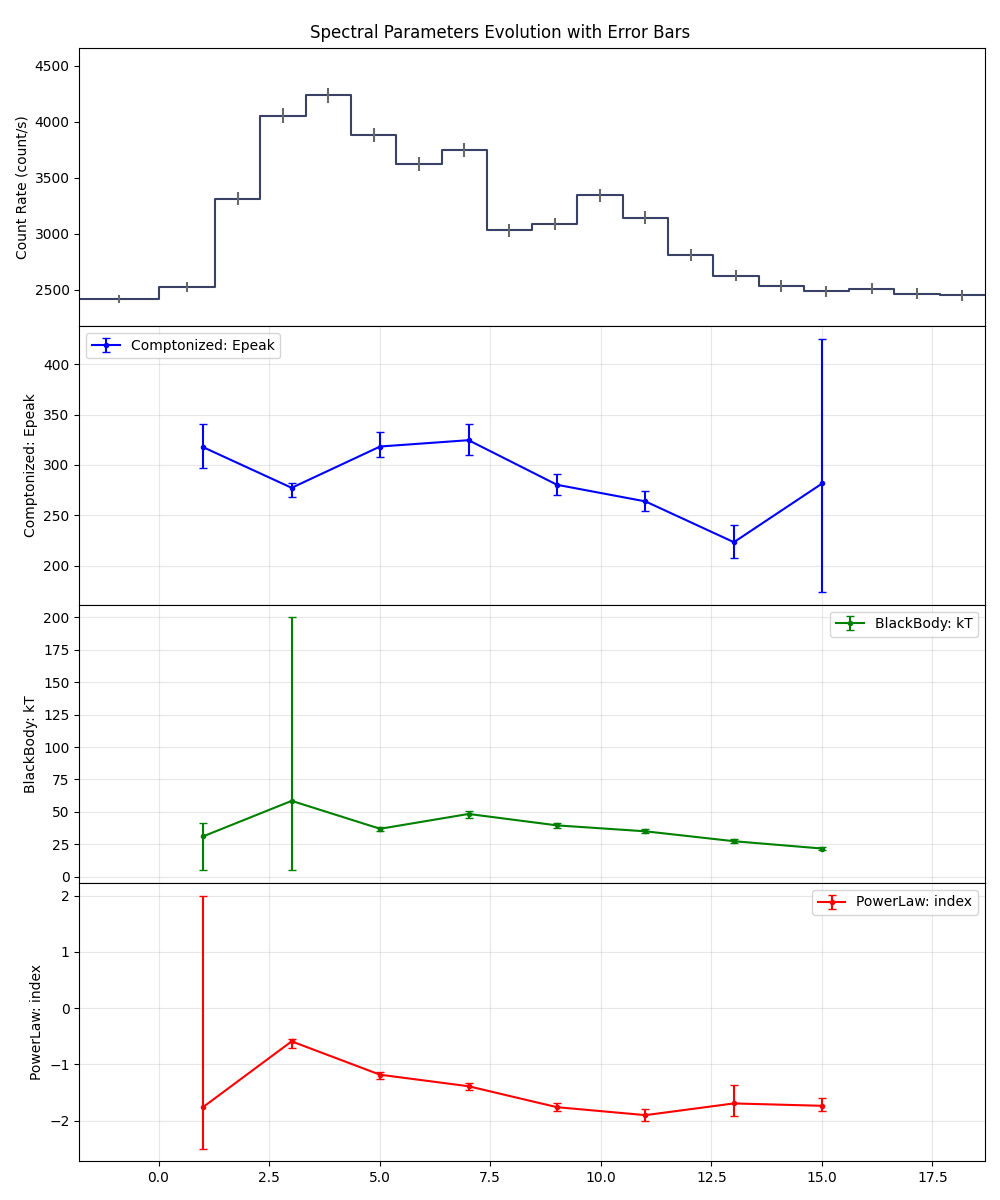
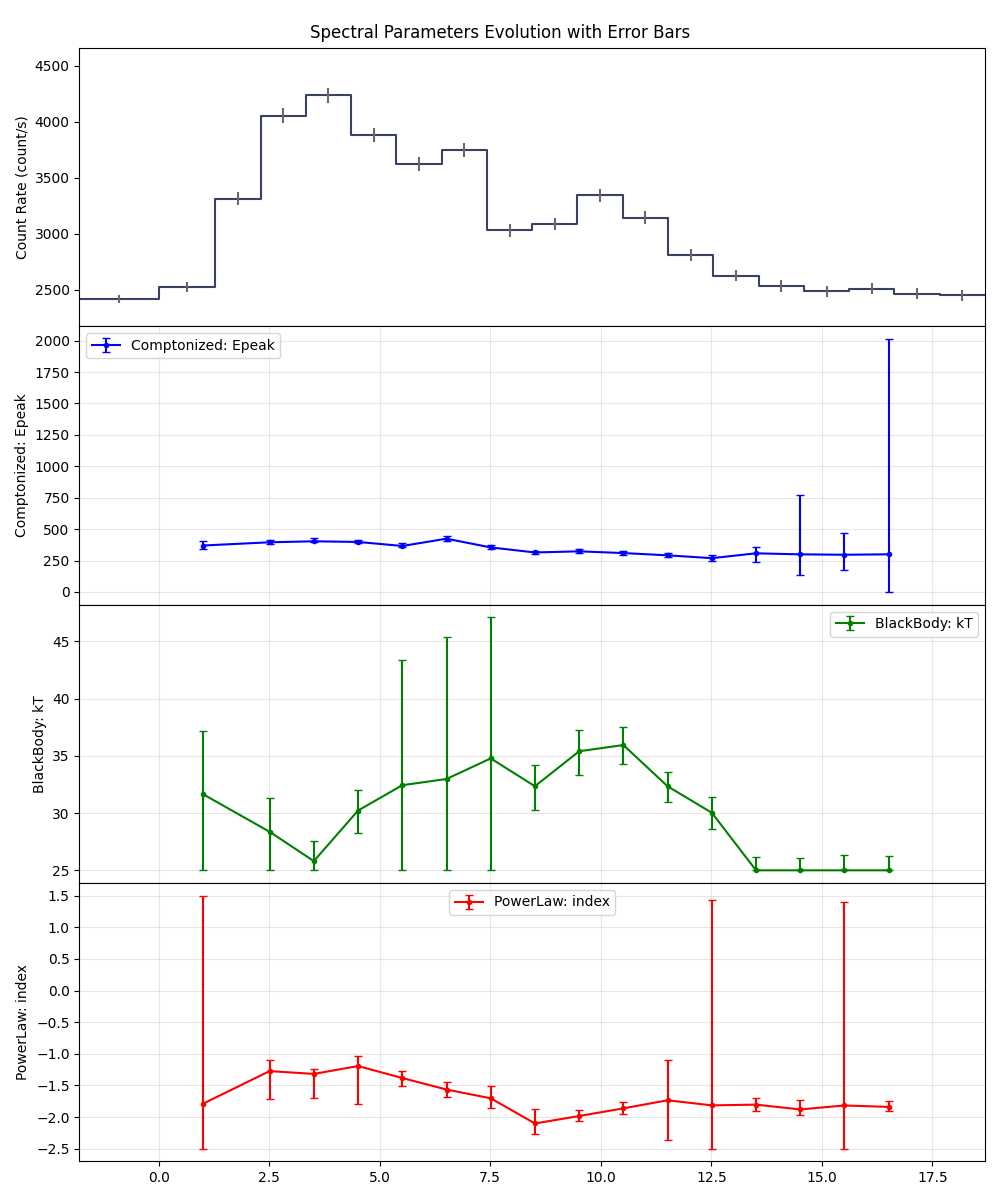
agregado modo estricto

diff --git a/spectral_analysis.py b/spectral_analysis.py
@@ -24,7 +24,7 @@ class GRBSpectralAnalysis:
 
     def __init__(
             self, obj: str, fit_type: Literal["band", "multi"],
-            ignore_bgo: bool, include_errors: bool,
+        ignore_bgo: bool, include_errors: bool, strict:bool,
             stat: str, out: str,
             max_beta: float = -0.2,
             min_bin_size: float = 2,
@@ -151,11 +151,11 @@ class GRBSpectralAnalysis:
                     fit_function.min_values[i] = -15.0
                 continue
 
-            if desc=='Temperature':
-                fit_function.max_values[i] = 200
+            if name=='BlackBody: kT':
+                fit_function.max_values[i] = 100
                 fit_function.min_values[i] = 5
 
-            elif desc == 'Photon index':
+            elif name== 'PowerLaw: index':
                 fit_function.max_values[i] = 2
                 fit_function.min_values[i] = -2.5
 
@@ -209,7 +209,7 @@ class GRBSpectralAnalysis:
             specfitter = specfitter_funct(
                 phas, self.bkgds.to_list(), rsps_interp, method='TNC'
             )
-            specfitter.fit(fit_function, options={'maxiter': 10000})
+            specfitter.fit(fit_function, options={'maxiter': 50000})
 
             # Get results
             parameters = specfitter.parameters
@@ -227,7 +227,8 @@ class GRBSpectralAnalysis:
                 is_epeak = 'SED PEAK' in desc.upper()
                 if not is_epeak: continue
                 epeak_err = errors[i][1]
-            fit_success = epeak_err < np.inf #and specfitter.success
+            fit_success = epeak_err < np.inf and \
+                (not self.strict or specfitter.success)
 
             # Store results
             result = {
@@ -375,6 +376,8 @@ to *my_results.csv*.""")
     error message; otherwise only successful fits are saved.""")
     parser.add_argument("--show", action="store_true",
         help="""Whether to show or not the graphs created.""")
+    parser.add_argument("--strict", action="store_true",
+                        help="""Use GBT bin acceptance criteria along with the energy criteria.""")
     args: Namespace = parser.parse_args()
     return args
 
@@ -394,8 +397,10 @@ def main() -> list[dict[str, Any]]:
             bkg_fit_degree=2,
             stat=args.stat,
             fit_type=args.fit_func,
+            strict=args.strict,
             ignore_bgo=args.ignore_bgo,
-            include_errors=args.include_errors)
+            include_errors=args.include_errors
+    )
     
     print("\nRunning time evolution analysis ({start_time}-{end_time}s)...")
     results = grb_analysis.run_time_evolution_analysis(start_time=start_time, end_time=end_time)
